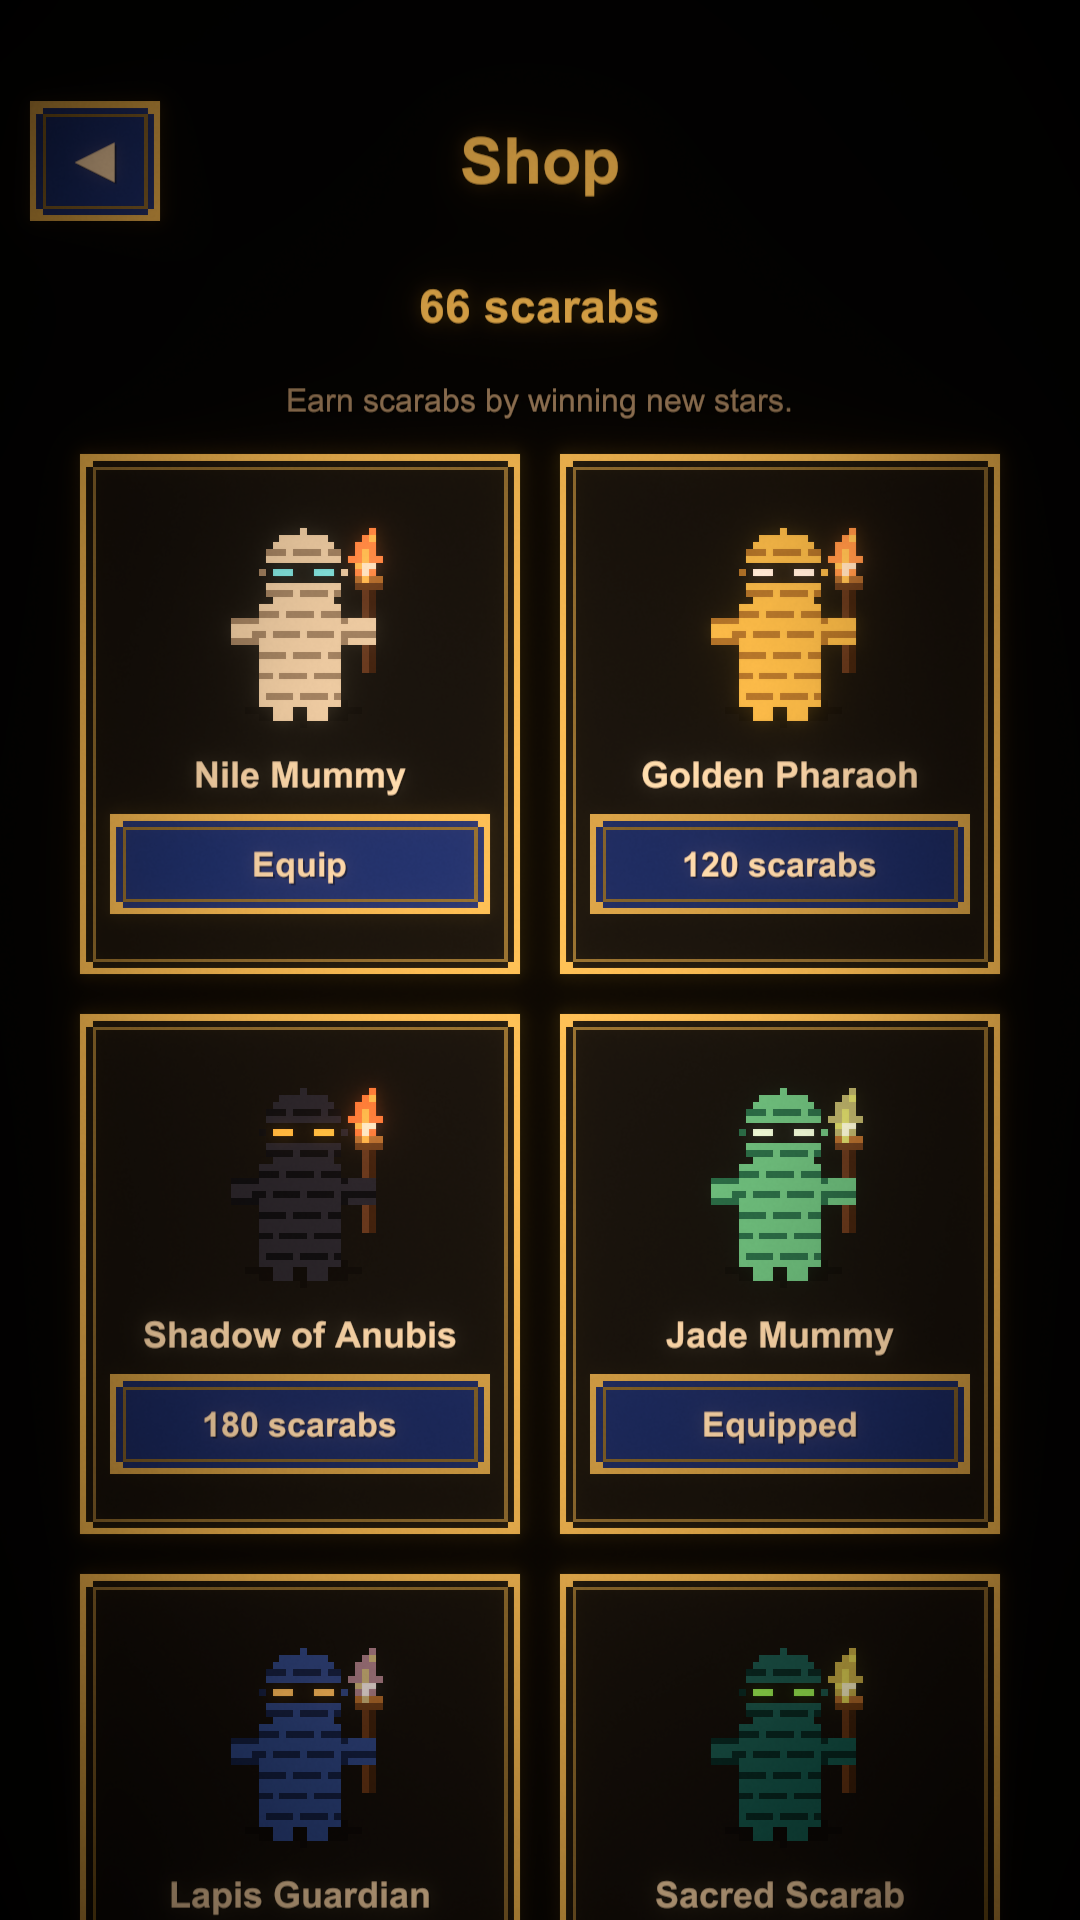
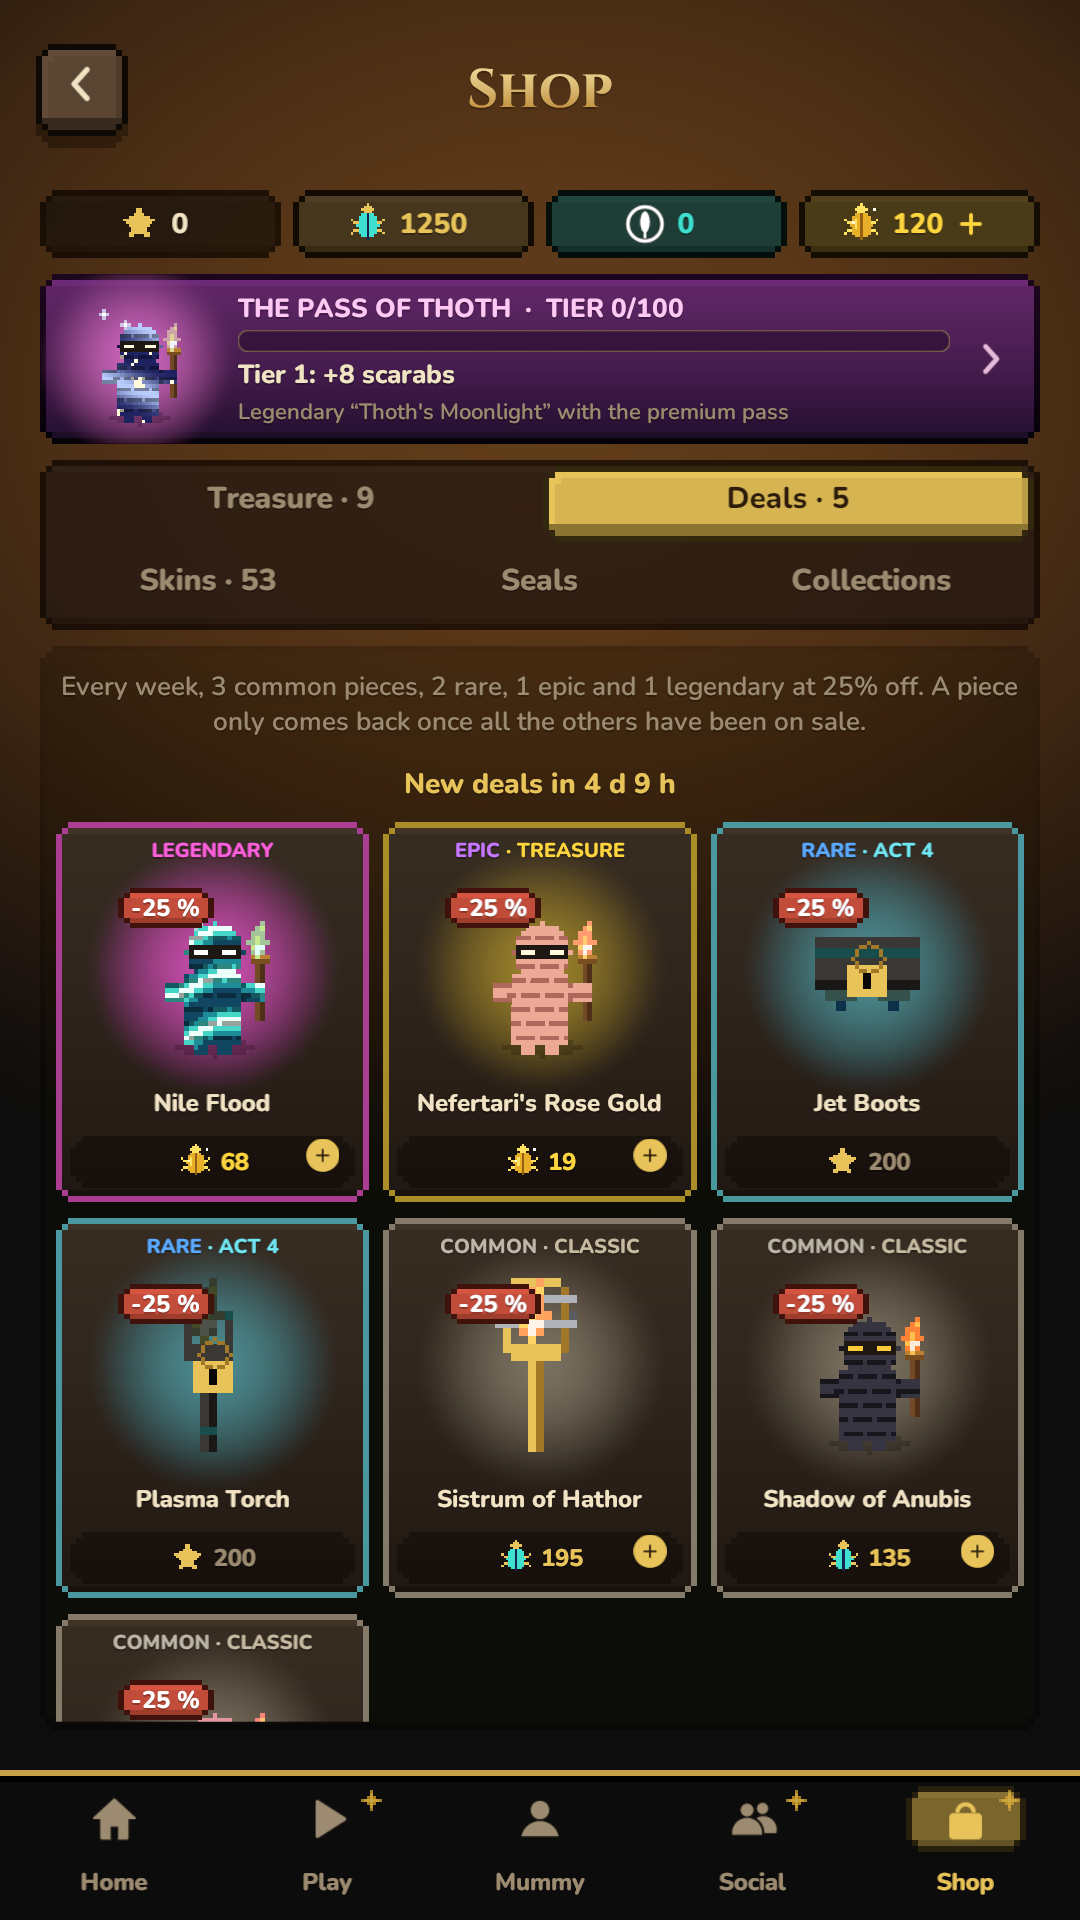
New store screenshots (FR and EN, 1080x1920): home lobby, a tomb in the dark, acts 2 to 4 at the memorize step, the 1v1 and 2v2 versus screens with dressed mummies, the shop

diff --git a/store/google-play/fiche-fr-FR.md b/store/google-play/fiche-fr-FR.md
@@ -64,7 +64,7 @@ BON À SAVOIR
 |---|---|---|
 | Icône | `icone-512.png` | 512 × 512, PNG 32 bits |
 | Bannière (feature graphic) | `banniere-1024x500.png` | 1024 × 500, PNG/JPEG sans transparence |
-| Captures téléphone (2 à 8) | `phone/*.png` (8 captures) | 1080 × 1920 (9:16) |
+| Captures téléphone (2 à 8) | `phone/*.png` (8 captures : accueil, tombeau dans le noir, actes 2 à 4, duel 1v1, 2v2, boutique) | 1080 × 1920 (9:16) |
 | Captures téléphone, fiche anglaise | `phone-en/*.png` (8 captures, jeu en anglais) | 1080 × 1920 (9:16) |
 
-Les captures sont générées dans l'éditeur (`unity command mummy_capture`). À refaire quand les graphismes définitifs remplaceront les placeholders.
+Les captures sont générées dans l'éditeur (`unity command mummy_capture`). Refaites le 14 octobre 2026 (profil de test « store », Game view 1080 × 1920).
